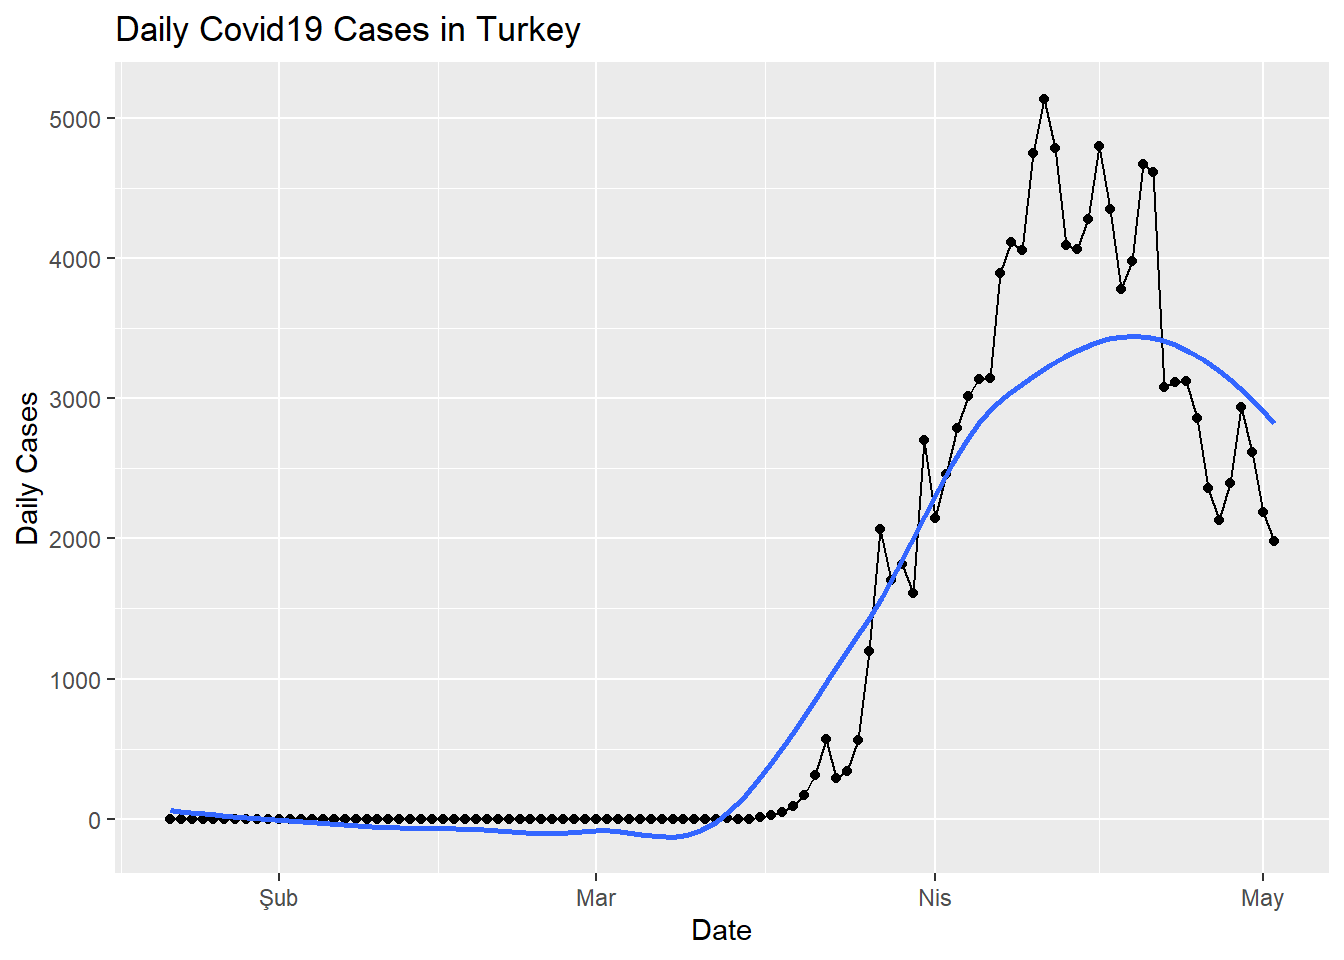
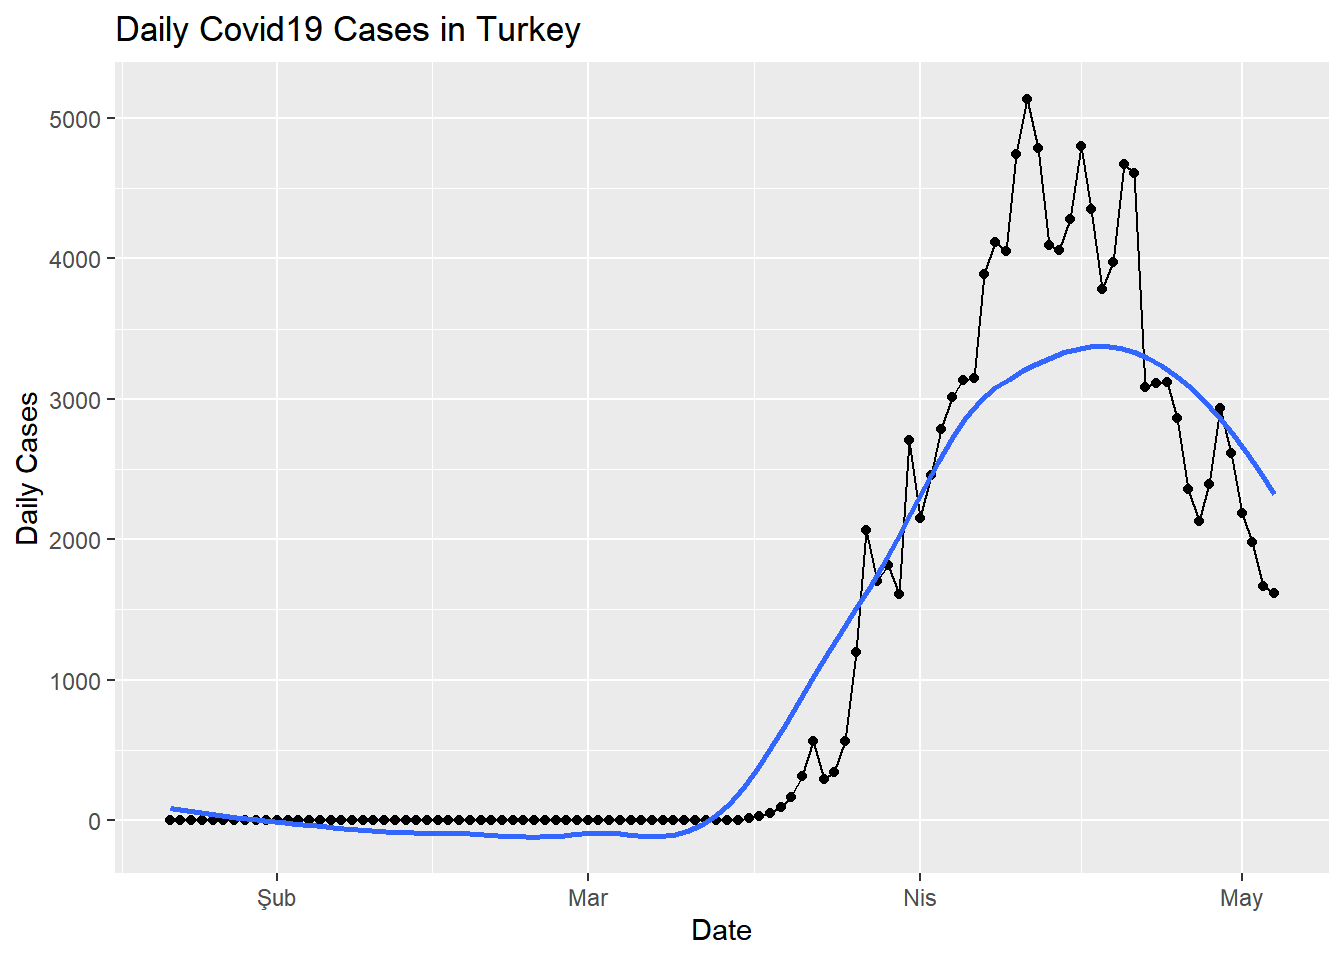
First Post

diff --git a/2020/05/covid19-ggplot2/index.html b/2020/05/covid19-ggplot2/index.html
@@ -320,10 +320,10 @@ library(&quot;lubridate&quot;)</code></pre>
 <pre class="r"><code>time_series_raw_confirmed &lt;- read.csv(&quot;https://raw.githubusercontent.com/CSSEGISandData/COVID-19/master/csse_covid_19_data/csse_covid_19_time_series/time_series_covid19_confirmed_global.csv&quot;)</code></pre>
 <p>Checking out the dimensions:</p>
 <pre class="r"><code>dim(time_series_raw_confirmed)</code></pre>
-<pre><code>## [1] 266 106</code></pre>
+<pre><code>## [1] 266 108</code></pre>
 <p>Checking out the first few rows and columns:</p>
 <pre class="r"><code>as_tibble(time_series_raw_confirmed)</code></pre>
-<pre><code>## # A tibble: 266 x 106
+<pre><code>## # A tibble: 266 x 108
 ##    Province.State Country.Region   Lat   Long X1.22.20 X1.23.20 X1.24.20
 ##    &lt;fct&gt;          &lt;fct&gt;          &lt;dbl&gt;  &lt;dbl&gt;    &lt;int&gt;    &lt;int&gt;    &lt;int&gt;
 ##  1 &quot;&quot;             Afghanistan     33    65           0        0        0
@@ -336,7 +336,7 @@ library(&quot;lubridate&quot;)</code></pre>
 ##  8 &quot;&quot;             Armenia         40.1  45.0         0        0        0
 ##  9 &quot;Australian C~ Australia      -35.5 149.          0        0        0
 ## 10 &quot;New South Wa~ Australia      -33.9 151.          0        0        0
-## # ... with 256 more rows, and 99 more variables: X1.25.20 &lt;int&gt;,
+## # ... with 256 more rows, and 101 more variables: X1.25.20 &lt;int&gt;,
 ## #   X1.26.20 &lt;int&gt;, X1.27.20 &lt;int&gt;, X1.28.20 &lt;int&gt;, X1.29.20 &lt;int&gt;,
 ## #   X1.30.20 &lt;int&gt;, X1.31.20 &lt;int&gt;, X2.1.20 &lt;int&gt;, X2.2.20 &lt;int&gt;,
 ## #   X2.3.20 &lt;int&gt;, X2.4.20 &lt;int&gt;, X2.5.20 &lt;int&gt;, X2.6.20 &lt;int&gt;, X2.7.20 &lt;int&gt;,
@@ -360,7 +360,7 @@ library(&quot;lubridate&quot;)</code></pre>
 ## #   X4.19.20 &lt;int&gt;, X4.20.20 &lt;int&gt;, X4.21.20 &lt;int&gt;, X4.22.20 &lt;int&gt;,
 ## #   X4.23.20 &lt;int&gt;, X4.24.20 &lt;int&gt;, X4.25.20 &lt;int&gt;, X4.26.20 &lt;int&gt;,
 ## #   X4.27.20 &lt;int&gt;, X4.28.20 &lt;int&gt;, X4.29.20 &lt;int&gt;, X4.30.20 &lt;int&gt;,
-## #   X5.1.20 &lt;int&gt;, X5.2.20 &lt;int&gt;</code></pre>
+## #   X5.1.20 &lt;int&gt;, X5.2.20 &lt;int&gt;, X5.3.20 &lt;int&gt;, ...</code></pre>
 <p>Dataframe has 264 rows (One row for each country/state) and 99 columns (One column for each day, starting on January 22).</p>
 </div>
 <div id="cleaning-and-consolidating-data" class="section level1">
@@ -378,20 +378,20 @@ library(&quot;lubridate&quot;)</code></pre>
 <p>Checking out new, tidy dataset:</p>
 <pre class="r"><code>as_tibble(time_series_tidy_confirmed) %&gt;%
   arrange(desc(accumulated_cases)) # Sorting desc. to see top numbers</code></pre>
-<pre><code>## # A tibble: 19,074 x 3
+<pre><code>## # A tibble: 19,448 x 3
 ##    country date       accumulated_cases
 ##    &lt;fct&gt;   &lt;date&gt;                 &lt;int&gt;
-##  1 US      2020-05-02           1132539
-##  2 US      2020-05-01           1103461
-##  3 US      2020-04-30           1069424
-##  4 US      2020-04-29           1039909
-##  5 US      2020-04-28           1012582
-##  6 US      2020-04-27            988197
-##  7 US      2020-04-26            965785
-##  8 US      2020-04-25            938154
-##  9 US      2020-04-24            905358
-## 10 US      2020-04-23            869170
-## # ... with 19,064 more rows</code></pre>
+##  1 US      2020-05-04           1180375
+##  2 US      2020-05-03           1158040
+##  3 US      2020-05-02           1132539
+##  4 US      2020-05-01           1103461
+##  5 US      2020-04-30           1069424
+##  6 US      2020-04-29           1039909
+##  7 US      2020-04-28           1012582
+##  8 US      2020-04-27            988197
+##  9 US      2020-04-26            965785
+## 10 US      2020-04-25            938154
+## # ... with 19,438 more rows</code></pre>
 <p>Adding daily cases as calculated field from accumulated cases and saving as a new data frame:</p>
 <pre class="r"><code>time_series_tidy_confirmed_with_daily &lt;- time_series_tidy_confirmed %&gt;%
   group_by(country) %&gt;% # Group by country
@@ -399,21 +399,21 @@ library(&quot;lubridate&quot;)</code></pre>
   mutate(daily_cases = c(0,diff(accumulated_cases))) # Calculate daily cases
 time_series_tidy_confirmed_with_daily %&gt;%
   arrange(desc(accumulated_cases)) # Sorting desc. to see top numbers</code></pre>
-<pre><code>## # A tibble: 19,074 x 4
+<pre><code>## # A tibble: 19,448 x 4
 ## # Groups:   country [187]
 ##    country date       accumulated_cases daily_cases
 ##    &lt;fct&gt;   &lt;date&gt;                 &lt;int&gt;       &lt;dbl&gt;
-##  1 US      2020-05-02           1132539       29078
-##  2 US      2020-05-01           1103461       34037
-##  3 US      2020-04-30           1069424       29515
-##  4 US      2020-04-29           1039909       27327
-##  5 US      2020-04-28           1012582       24385
-##  6 US      2020-04-27            988197       22412
-##  7 US      2020-04-26            965785       27631
-##  8 US      2020-04-25            938154       32796
-##  9 US      2020-04-24            905358       36188
-## 10 US      2020-04-23            869170       28819
-## # ... with 19,064 more rows</code></pre>
+##  1 US      2020-05-04           1180375       22335
+##  2 US      2020-05-03           1158040       25501
+##  3 US      2020-05-02           1132539       29078
+##  4 US      2020-05-01           1103461       34037
+##  5 US      2020-04-30           1069424       29515
+##  6 US      2020-04-29           1039909       27327
+##  7 US      2020-04-28           1012582       24385
+##  8 US      2020-04-27            988197       22412
+##  9 US      2020-04-26            965785       27631
+## 10 US      2020-04-25            938154       32796
+## # ... with 19,438 more rows</code></pre>
 <p>Filtering Turkey, calculating daily cases from accumulated cases and saving as a new data frame:</p>
 <pre class="r"><code>turkey_time_series_tidy_confirmed_with_daily &lt;- time_series_tidy_confirmed %&gt;%
   filter(country == &quot;Turkey&quot;) %&gt;% # Filtering Turkey
@@ -422,12 +422,12 @@ time_series_tidy_confirmed_with_daily %&gt;%
 head(turkey_time_series_tidy_confirmed_with_daily %&gt;%
   arrange(desc(accumulated_cases))) # Sorting desc. to see top numbers</code></pre>
 <pre><code>##   country       date accumulated_cases daily_cases
-## 1  Turkey 2020-05-02            124375        1983
-## 2  Turkey 2020-05-01            122392        2188
-## 3  Turkey 2020-04-30            120204        2615
-## 4  Turkey 2020-04-29            117589        2936
-## 5  Turkey 2020-04-28            114653        2392
-## 6  Turkey 2020-04-27            112261        2131</code></pre>
+## 1  Turkey 2020-05-04            127659        1614
+## 2  Turkey 2020-05-03            126045        1670
+## 3  Turkey 2020-05-02            124375        1983
+## 4  Turkey 2020-05-01            122392        2188
+## 5  Turkey 2020-04-30            120204        2615
+## 6  Turkey 2020-04-29            117589        2936</code></pre>
 <p>Listing top 9 countries in terms of total cases (Will come in handy later)</p>
 <pre class="r"><code>top_nine_countries &lt;- time_series_tidy_confirmed_with_daily %&gt;%
   filter(date == &#39;2020-05-02&#39;) %&gt;%
@@ -466,17 +466,17 @@ top_nine_countries</code></pre>
   geom_point() + # Added points
   geom_smooth(se = FALSE) + # Added regression line, locally fitted with loess method 
   labs(y = &quot;Daily Cases&quot;, x = &quot;Date&quot;, title = &quot;Daily Covid19 Cases in Top 9 Countries&quot;) + # Axis labels and main title added
-  facet_wrap(country~., nrow = 3, scales = &quot;free&quot;) </code></pre>
+  facet_wrap(~ country, nrow = 3, scales = &quot;free&quot;) </code></pre>
 <p><img src="https://auditanddata.com/post/2020-05-02-covid19-ggplot2_files/figure-html/unnamed-chunk-12-1.png" width="672" /></p>
 <p>And situation about accumulated cases is as following:</p>
 <p>Plotting accumulated case trend top 9 countries, black line and dots respresent actual case numbers and blue line is regression line:</p>
-<pre class="r"><code>options(scipen = 999999) # Closing scientific display of numbers
+<pre class="r"><code>options(scipen = 999999) # To see numbers as is, not in scientific format 
 ggplot(data = filter(time_series_tidy_confirmed_with_daily, country == as_vector(top_nine_countries)), mapping = aes(x = date, y = accumulated_cases)) + # Passed on data, mapping and variables to plot, wrote explicitly on purpose
   geom_line() + # Added line
   geom_point() + # Added points
   geom_smooth(se = FALSE) + # Added regression line, locally fitted with loess method 
   labs(y = &quot;Accumulated Cases&quot;, x = &quot;Date&quot;, title = &quot;Accumulated Covid19 Cases in Top 9 Countries&quot;) + # Axis labels and main title added
-  facet_grid(country~., scales = &quot;free_y&quot;)</code></pre>
+  facet_grid(~ country, scales = &quot;free_y&quot;)</code></pre>
 <p><img src="https://auditanddata.com/post/2020-05-02-covid19-ggplot2_files/figure-html/unnamed-chunk-13-1.png" width="672" /></p>
 </div>
 <div class="footnotes">
